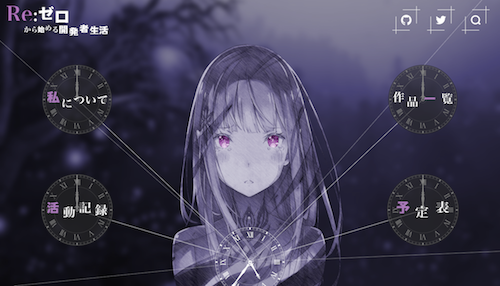
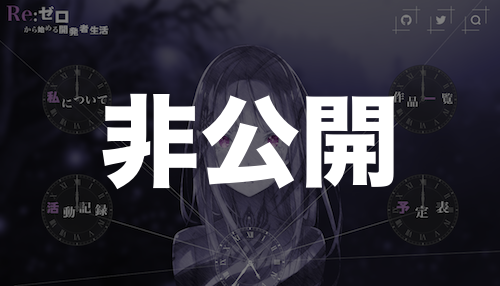
fix: v1~v4を非公開に

diff --git a/src/scripts/config/history.js b/src/scripts/config/history.js
@@ -3,25 +3,25 @@ export default [
     "version": "1.0.0",
     "title": "幻想",
     "thumb": "./images/history/v1.png",
-    "link": "http://v1.yuki540.com"
+    "link": "#"
   },
   {
     "version": "2.0.0",
     "title": "サテラ",
     "thumb": "./images/history/v2.png",
-    "link": "http://v2.yuki540.com"
+    "link": "#"
   },
   {
     "version": "3.0.0",
     "title": "結衣",
     "thumb": "./images/history/v3.png",
-    "link": "http://v3.yuki540.com"
+    "link": "#"
   },
   {
     "version": "4.0.0",
     "title": "共依存",
     "thumb": "./images/history/v4.png",
-    "link": "http://v4.yuki540.com"
+    "link": "#"
   },
   {
     "version": "5.0.0",
